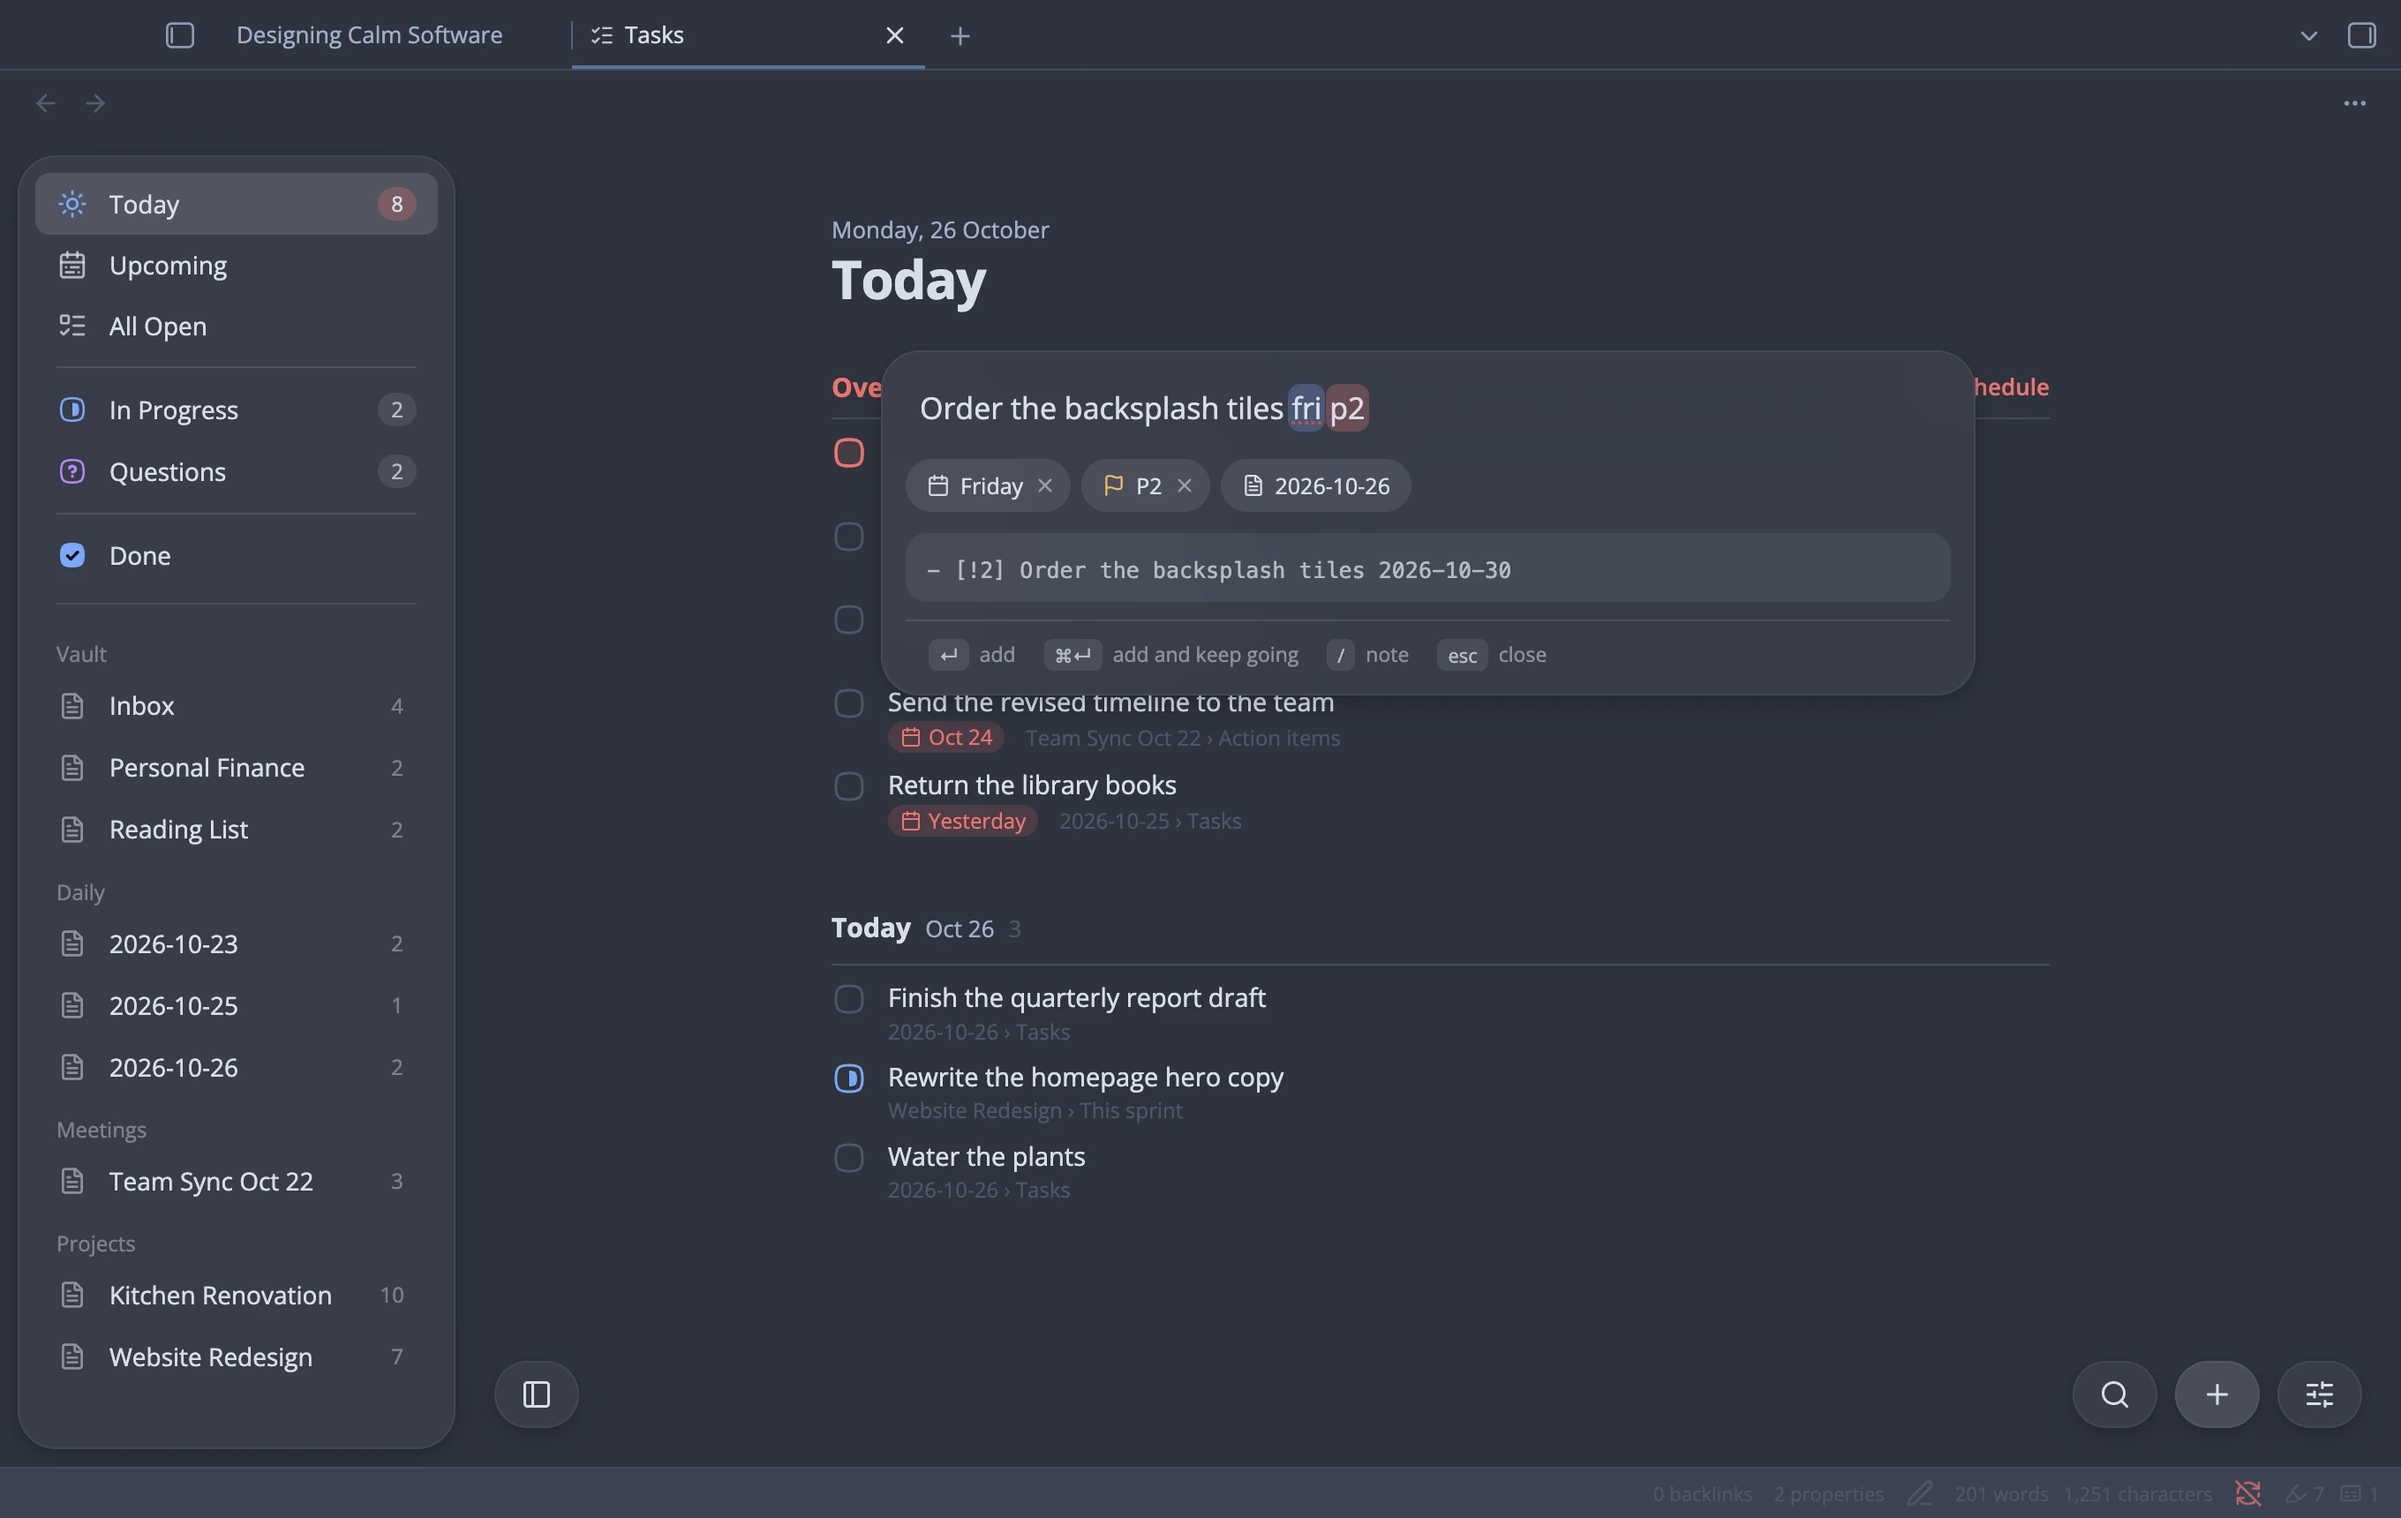
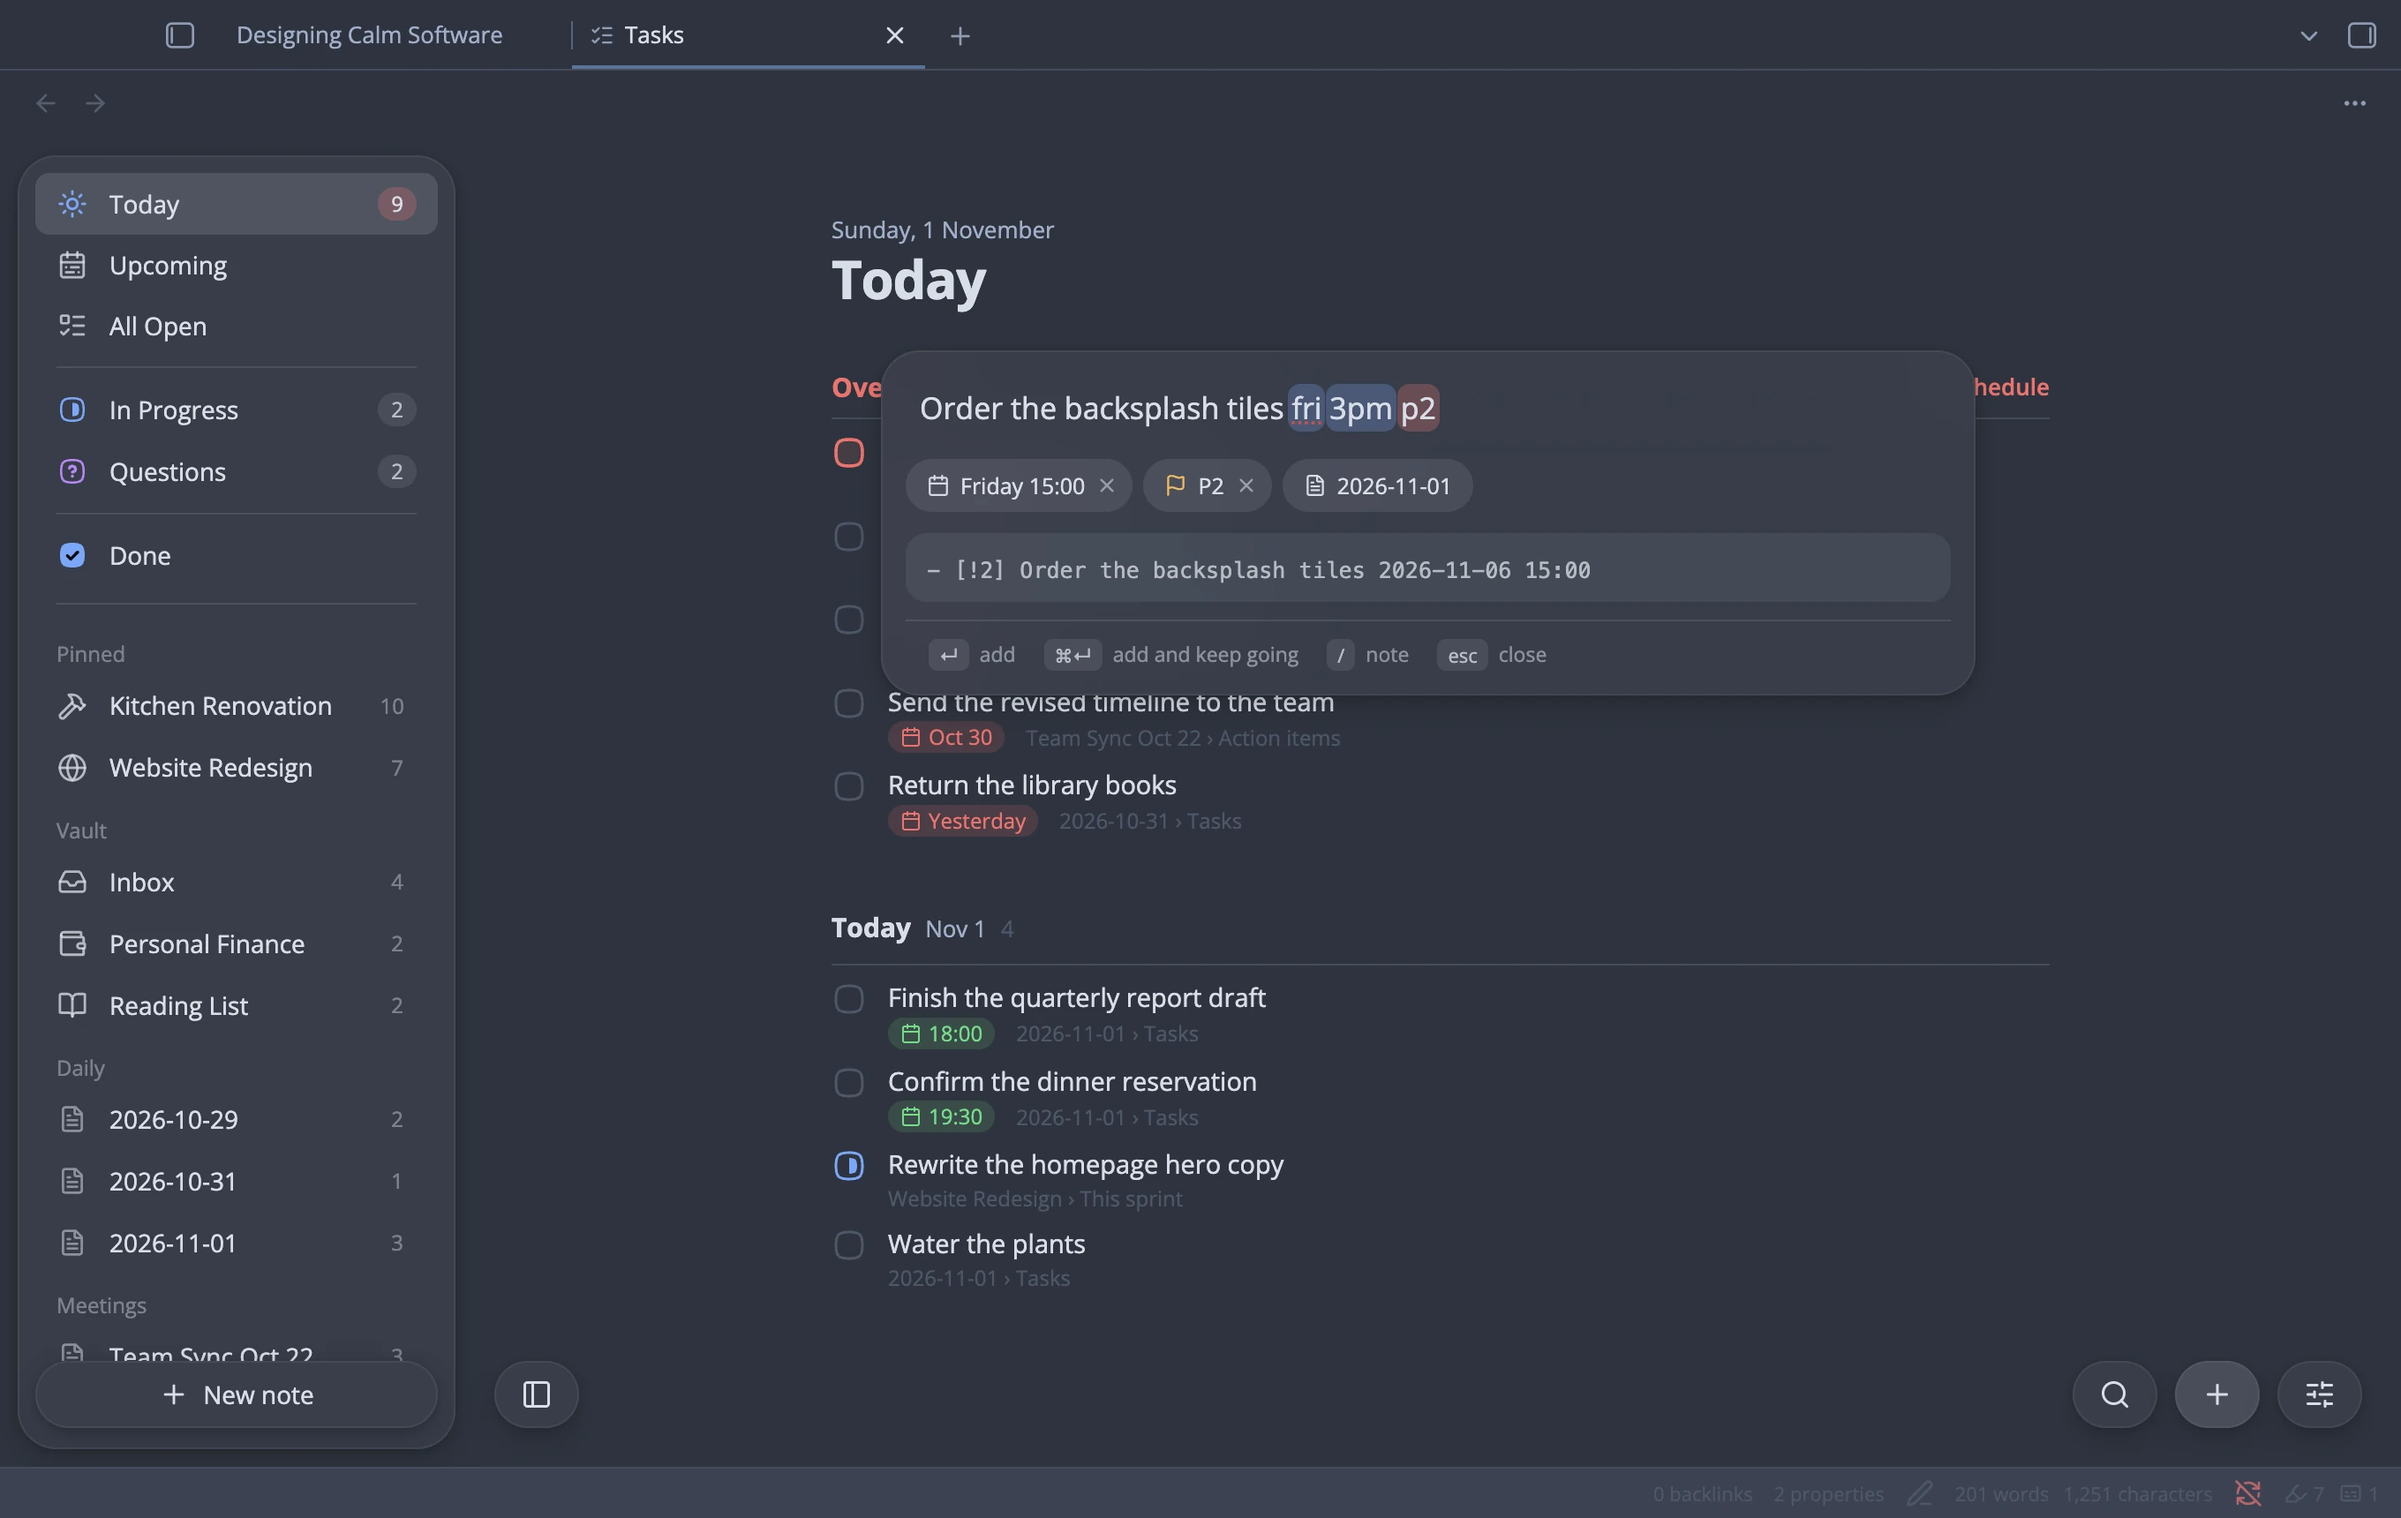
README: retake the Tasks screenshots, add a Headings section
The Tasks shots now show pinned notes with icons, times on tasks and the
New note button. A new shot shows the heading menu. Quick add mentions
times, and checkboxes written with * or + count.

diff --git a/README.md b/README.md
@@ -131,7 +131,7 @@ Collections gather related highlights from anywhere in the vault.
 <p align="center">
   <picture>
     <source media="(prefers-color-scheme: dark)" srcset="https://raw.githubusercontent.com/trevware/obsidian-sidebar-highlights/HEAD/.github/screenshots/tasks-dark.webp">
-    <img src="https://raw.githubusercontent.com/trevware/obsidian-sidebar-highlights/HEAD/.github/screenshots/tasks-light.webp" alt="The Tasks tab on Today, with overdue tasks above today's">
+    <img src="https://raw.githubusercontent.com/trevware/obsidian-sidebar-highlights/HEAD/.github/screenshots/tasks-light.webp" alt="The Tasks tab on Today, with overdue tasks above today's, two of them at a set time, and two pinned notes with icons in the sidebar">
   </picture>
 </p>
 
@@ -149,12 +149,12 @@ Each list keeps its own grouping and sorting, and whether it shows completed tas
 
 ### Adding Tasks
 
-Press **Q**, or the **+** button, and type it the way you'd say it. `Call the dentist fri p1` is due Friday with priority 1, and dates understand things like `tomorrow`, `in 3 days` and `nov 3`. A task added from a note's list goes to that note, otherwise to wherever you added the last one, and typing `/` picks another note or a heading. Type a heading the note doesn't have yet and quick add offers to create it, or a note name that doesn't exist and it offers to make the note.
+Press **Q**, or the **+** button, and type it the way you'd say it. `Call the dentist fri p1` is due Friday with priority 1, and dates understand things like `tomorrow`, `in 3 days` and `nov 3`. Put a time after the day, like `fri 3pm`, and the task gets that time too. A task added from a note's list goes to that note, otherwise to wherever you added the last one, and typing `/` picks another note or a heading. Type a heading the note doesn't have yet and quick add offers to create it, or a note name that doesn't exist and it offers to make the note.
 
 <p align="center">
   <picture>
     <source media="(prefers-color-scheme: dark)" srcset="https://raw.githubusercontent.com/trevware/obsidian-sidebar-highlights/HEAD/.github/screenshots/quick-add-dark.webp">
-    <img src="https://raw.githubusercontent.com/trevware/obsidian-sidebar-highlights/HEAD/.github/screenshots/quick-add-light.webp" alt="Quick add reading a date and a priority out of the task as it's typed">
+    <img src="https://raw.githubusercontent.com/trevware/obsidian-sidebar-highlights/HEAD/.github/screenshots/quick-add-light.webp" alt="Quick add reading a day, a time and a priority out of the task as it's typed">
   </picture>
 </p>
 
@@ -164,10 +164,25 @@ Press **Q**, or the **+** button, and type it the way you'd say it. `Call the de
 - Click a task to highlight it, then click again to open its card: the notes under it, its date, priority and status. Click the task's name in the card to rename it (or press **R**), and **Add subtask** adds subtasks right there
 - Right-click it (or press and hold on a phone) for everything else: move it under another heading, copy it as Markdown, open it beside the note, delete it
 - Drag tasks to reorder them, or onto another heading to move them there
-- In a note's list, drag a heading to move it with everything under it
-- Right-click a heading to rename it (links to it follow the new name), change its level, move it, copy a link to it, or delete it with or without its tasks
 - Undo any change from the message at the bottom, or with ⌘Z
 - ⌘K searches tasks, notes and commands, and **?** lists every keyboard shortcut
+
+### Headings
+
+A note's list groups its tasks under the note's own headings, and you can rearrange them from there without opening the note. Drag a heading to move it with everything under it, or right-click it (press and hold on a phone) for the rest:
+
+- **Rename heading** edits the name in place, and links to it in your other notes follow the new name
+- **Change level** picks anything from Heading 1 to Heading 6, and the smaller headings under it move along
+- **Move heading** puts it somewhere else in the note, picked from a list
+- **Add a task here**, **Open in note** and **Copy link** do what they say
+- **Delete heading, keep tasks** takes out the heading line and its tasks join the section above. **Delete heading and tasks** takes out the whole section. Undo brings either one back
+
+<p align="center">
+  <picture>
+    <source media="(prefers-color-scheme: dark)" srcset="https://raw.githubusercontent.com/trevware/obsidian-sidebar-highlights/HEAD/.github/screenshots/headings-dark.webp">
+    <img src="https://raw.githubusercontent.com/trevware/obsidian-sidebar-highlights/HEAD/.github/screenshots/headings-light.webp" alt="Right-clicking the Contractors heading in a note's list, with Rename heading, Change level, Move heading and the two ways to delete it">
+  </picture>
+</p>
 
 ### In the Sidebar
 
@@ -182,7 +197,7 @@ Press **Q**, or the **+** button, and type it the way you'd say it. `Call the de
 
 ### What Counts as a Task
 
-Standard checkboxes, `- [ ]` and `- [x]`, plus in-progress `- [/]`, cancelled `- [-]` and question `- [?]`. Alternate checkboxes from themes like Minimal show up under their own names. A date anywhere on the line, in the format set under **Settings → Tasks → Due date format**, is the task's due date. A time written right after that date, like `2026-10-30 15:00` or `2026-10-30 3pm`, is the task's time: it shows on the row, sorts the day, and turns red once it has gone by. Metadata written by the Tasks plugin is hidden by default.
+Standard checkboxes, `- [ ]` and `- [x]` (written with `*` or `+` just as well), plus in-progress `- [/]`, cancelled `- [-]` and question `- [?]`. Alternate checkboxes from themes like Minimal show up under their own names. A date anywhere on the line, in the format set under **Settings → Tasks → Due date format**, is the task's due date. A time written right after that date, like `2026-10-30 15:00` or `2026-10-30 3pm`, is the task's time: it shows on the row, sorts the day, and turns red once it has gone by. Metadata written by the Tasks plugin is hidden by default.
 
 ### Reminders
 
